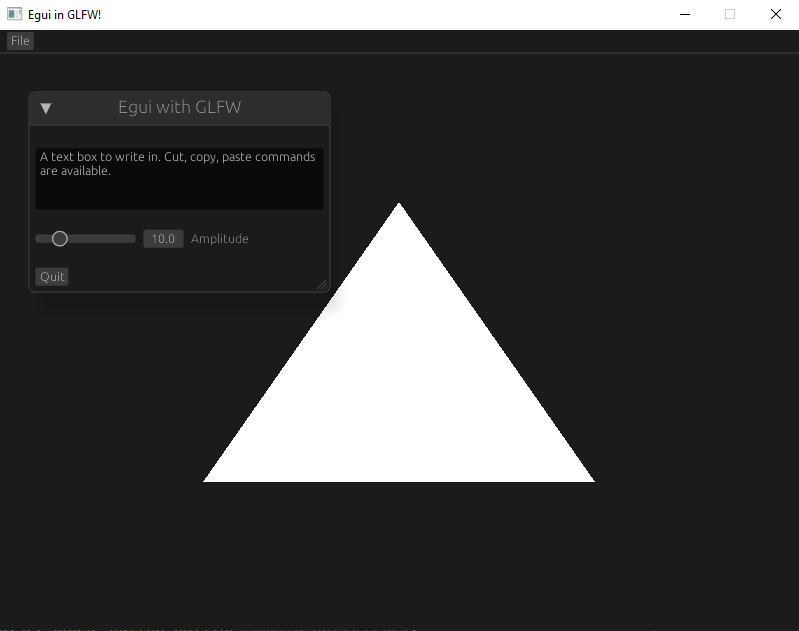
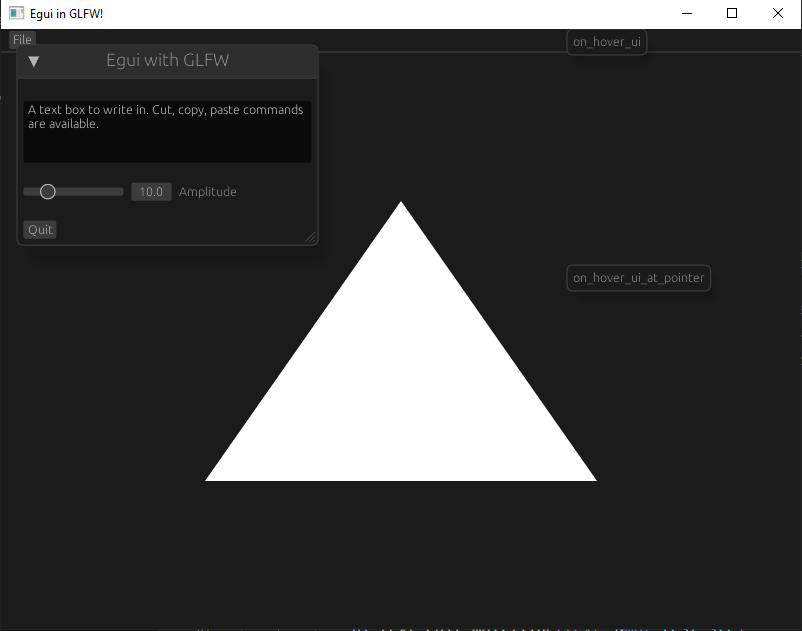
Update example

diff --git a/examples/demo/main.rs b/examples/demo/main.rs
@@ -44,7 +44,27 @@ fn main() {
             }
         });
 
-        egui::CentralPanel::default().show(egui_context, |ui| ui.add(triangle_widget.clone()));
+        egui::CentralPanel::default().show(egui_context, |ui| {
+            let response = ui
+                .add(triangle_widget.clone())
+                .on_hover_ui_at_pointer(|ui| {
+                    ui.label("on_hover_ui_at_pointer");
+                })
+                .on_hover_ui(|ui| {
+                    ui.label("on_hover_ui");
+                });
+            response.context_menu(|ui| {
+                ui.label("Context menu");
+                let btn = ui.button("button");
+                if btn.clicked() {
+                    println!("Button clicked");
+                }
+            });
+            if response.hovered() {
+                print!("Hovered\n");
+            }
+            response
+        });
 
         app_window.end_frame();
 

diff --git a/examples/demo/triangle.rs b/examples/demo/triangle.rs
@@ -217,7 +217,8 @@ impl Into<TriangleWidget> for Triangle {
 
 impl Widget for TriangleWidget {
     fn ui(self, ui: &mut Ui) -> Response {
-        let (rect, response) = ui.allocate_exact_size(ui.available_size(), Sense::drag());
+        let response = ui.allocate_response(ui.available_size(), Sense::click_and_drag());
+        let rect = response.rect;
         let callback = PaintCallback {
             rect,
             callback: std::sync::Arc::new(PaintCallbackFn::new(move |_info, _painter| {
